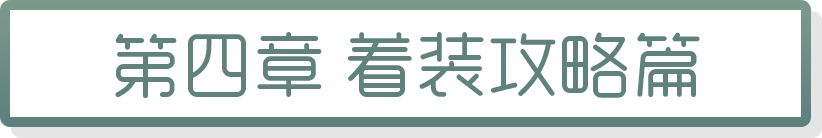
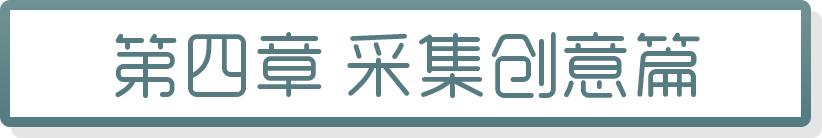
更新添加内容,调色板

Changed region(s): [[0.3954, 0.2319, 0.7603, 0.7246]]

diff --git a/www/templates/four_secai_1.html b/www/templates/four_secai_1.html
@@ -1,5 +1,8 @@
 <ion-view>
     <ion-content scroll="false">
+        <!--本页层数 z-index-->
+        <!--中间的填图为-1（最底层）,参考图片按钮即图片上面的按钮为2（防止以后加入其它层，所以跳过1层）色板及色板翻页为3层
+        说明以及完成弹出框为4层，关闭按钮为5层-->
         <div id="sebiao_1" class="sebiao"></div>
         <div id="sebiao_2" class="sebiao"></div>
         <div id="sebiao_3" class="sebiao"></div>
@@ -7,7 +10,7 @@
         <div id="sebiao_5" class="sebiao"></div>
         <div id="sebiao_6" class="sebiao"></div>
         <div id="sebiao_7" class="sebiao"></div>
-        <img id="tiaoseban" src="img/colorclass/tiaoseban.png" alt=""/>
+        <img id="tiaoseban" src="img/colorclass/tiaoseban.png" onclick="tiao_seban()" alt=""/>
         <hr id="up_hr"/>
         <hr id="down_hr"/>
         <img id="photo_anniu" src="img/colorclass/photo_anniu.png" alt=""/>
@@ -21,8 +24,43 @@
         <img id="complete" src="img/colorclass/complete.png" onclick="complete_on()" alt=""/>
         <!--这个div用来代替关闭-->
         <div id="delete_complete" onclick="complete_off()"></div>
-        <img id="complete_text" src="img/colorclass/complete_text.png" alt=""/>
+        <img id="complete_text" src="img/colorclass/complete_text_1.png" alt=""/>
         <img id="photo_back" src="img/colorclass/photo_back.png" ng-click="backThree_secai_1()" alt=""/>
-        <img src="" alt=""/>
+        <!--色板-->
+        <!--色板1-->
+        <div class="seban" id="seban_1">
+            <div style="background-color:#F9CAC4" class="ts"></div>
+            <div style="background-color:#F6AFC1" class="ts"></div>
+            <div style="background-color:#EE2C75" class="ts"></div>
+            <div style="background-color:#ED3125" class="ts"></div>
+            <div style="background-color:#AC0634" class="ts"></div>
+            <div style="background-color:#A74D0E" class="ts"></div>
+            <div style="background-color:#F9AB84" class="ts"></div>
+            <div style="background-color:#F08C1C" class="ts"></div>
+            <div style="background-color:#FCB912" class="ts"></div>
+            <div style="background-color:#FFDD00" class="ts"></div>
+            <div style="background-color:#C0D82C" class="ts"></div>
+            <div style="background-color:#8DC73D" class="ts"></div>
+            <div style="background-color:#C8D5A7" class="ts"></div>
+            <div style="background-color:#008651" class="ts"></div>
+            <div style="background-color:#00664E" class="ts"></div>
+            <div style="background-color:#67C7C5" class="ts"></div>
+            <div style="background-color:#017A83" class="ts"></div>
+            <div style="background-color:#AAE0EC" class="ts"></div>
+            <div style="background-color:#7DB1C9" class="ts"></div>
+            <div style="background-color:#0064A2" class="ts"></div>
+            <div style="background-color:#792B81" class="ts"></div>
+            <div style="background-color:#55628F" class="ts"></div>
+            <div style="background-color:#C2C3DF" class="ts"></div>
+            <div style="background-color:#FFFFFF;border: 1px solid #AAAAAA" class="ts"></div>
+            <div style="background-color:#C6C7C9" class="ts"></div>
+            <div style="background-color:#919596" class="ts"></div>
+            <div style="background-color:#000000" class="ts"></div>
+            <img class="seban_right" src="img/colorclass/seban_right.png" alt=""/>
+        </div>
+        <!--色板2-->
+        <!--<div class="seban" id="seban_2">-->
+            <!--<div style="background-color:#;" class="ts"></div>-->
+        <!--</div>-->
     </ion-content>
 </ion-view>

diff --git a/www/templates/three_secai_4.html b/www/templates/three_secai_4.html
@@ -5,7 +5,59 @@
             <img id="upFixed_Img" src="img/colorclass/back.png" ng-click="backSecond_1()" alt=""/>
         </div>
         <div class="text">
-            <p class="text_h">这里是第四个章节</p>
+            <p></p>
+            <p class="p_title">采集创意篇</p>
+            <p class="paragraph">自然界的色彩是丰富动人的，它们构成了自然美。日月云霞、原野山川、江河湖海、花木林果和鸟兽禽鱼……都无不以美妙丰富的色彩展现出绮丽的光色。</p>
+
+            <p class="paragraph">大自然是取之不尽用之不竭的色彩宝库。自然色是和谐、统一的典范，即使是任意攫取任何自然色彩的一个片断，它的天然的统一调性都具有无以伦比的调和品质。</p>
+
+            <p class="paragraph">自然界是色彩创作设计的源泉，是搜集素材最理想的地域。我们只要仔细观察，一切美妙的色彩都会成为我们激发灵感的无尽资源。</p>
+
+            <p class="paragraph">下面让我们尝试从植物、人为物、自然材质中选取标本、采集色彩，整理色谱并应用于在服装色彩设计中的方法。</p>
+
+            <p class="p_title">视频：采集创意的过程</p>
+            <p></p>
+            <p class="p_title">脚本1—采集色彩：</p>
+
+            <p class="paragraph">拍摄一个采集对象</p>
+
+            <p class="paragraph">导入Photoshop，</p>
+
+            <p class="paragraph">裁剪换面，</p>
+
+            <p class="paragraph">用“图像—”“调整”—“亮度/对比度”调准色彩</p>
+
+            <p class="paragraph">在“滤镜库”—木刻中调整“色阶”数值，确定提取颜色数量</p>
+
+            <p class="paragraph">在画面下方用灰色做出相应数量色块</p>
+
+            <p class="paragraph">用“吸管”工具在画面吸取颜色</p>
+
+            <p class="paragraph">把吸取的色彩依次填色到灰色块，完成色谱提取。</p>
+
+            <p class="p_title">脚本2—采集色彩：</p>
+
+            <p class="paragraph">建立一个新文件，RGB格式，A4横画幅，150DPI分辨率</p>
+
+            <p class="paragraph">导入服装模特原型文件（PSD分层文件，预分好服装部件分色图层）</p>
+
+            <p class="paragraph">导入采集色彩文件，与服装图并置于画面内</p>
+
+            <p class="paragraph">用“吸管”工具在色谱中依次吸取颜色，填在服装相应部位</p>
+
+            <p class="paragraph">存储完成的创意色彩图</p>
+
+            <p class="paragraph">在完成的彩色图基础上，用“图像”“图像—”“调整”—“色相/饱和度”</p>
+
+            <p class="paragraph">调整推演出系列色彩方案，依次存储变化的结果</p>
+
+            <p class="p_title">示例图：《窗前》</p>
+
+            <p class="p_title">采集：</p>
+            <img class="p_photo" src="img/colorclass/four/1.jpg" alt=""/>
+            <p class="p_title">提取、转移、重构：</p>
+            <img class="p_photo" src="img/colorclass/four/2.jpg" alt=""/>
+            <img class="p_photo" src="img/colorclass/four/3.jpg" alt=""/>
             <img id="ceshianniu" src="img/colorclass/ceshi.png" ng-click="goFour_secai_4()"/>
         </div>
     </ion-content>

diff --git a/www/templates/three_secai_3.html b/www/templates/three_secai_3.html
@@ -5,12 +5,37 @@
             <img id="upFixed_Img" src="img/colorclass/back.png" ng-click="backSecond_1()" alt=""/>
         </div>
         <div class="text">
-            <img class="photo_text" src="img/colorclass/three/1.png" alt=""/>
-            <img class="photo_text" src="img/colorclass/three/2.png" alt=""/>
-            <img class="photo_text" src="img/colorclass/three/3.png" alt=""/>
-            <img class="photo_text" src="img/colorclass/three/4.png" alt=""/>
-            <img class="photo_text" src="img/colorclass/three/5.png" alt=""/>
-            <img class="photo_text" src="img/colorclass/three/6.png" alt=""/>
+            <p></p>
+            <p class="p_title">主色相统合法：</p>
+            <p class="paragraph">在着装的色彩组合中，以基本色相为统领，突出一个色相的主色调，是既突出主调，又高度调和统一的组合途径。</p>
+
+            <p class="paragraph">红、橙、黄、蓝、绿、紫是色彩世界中的几个基本色相。各基本色相都有鲜明的性格和象征性，也表现为一定的主题。</p>
+
+            <p class="paragraph">下面的色调来源于香山的秋色主题，红、橙、黄主色再辅以不同明度和纯度的演化，形成了醇厚浓郁的色调。</p>
+            <img class="p_photo" src="img/colorclass/three/1.jpg" alt=""/>
+            <img class="p_photo" src="img/colorclass/three/2.jpg" alt=""/>
+            <img class="p_photo" src="img/colorclass/three/3.jpg" alt=""/>
+            <img class="p_photo" src="img/colorclass/three/4.jpg" alt=""/>
+            <img class="p_photo" src="img/colorclass/three/5.jpg" alt=""/>
+            <img class="p_photo" src="img/colorclass/three/6.jpg" alt=""/>
+            <img class="p_photo" src="img/colorclass/three/7.jpg" alt=""/>
+            <img class="p_photo" src="img/colorclass/three/8.jpg" alt=""/>
+            <img class="p_photo" src="img/colorclass/three/9.jpg" alt=""/>
+            <img class="p_photo" src="img/colorclass/three/10.jpg" alt=""/>
+            <img class="p_photo" src="img/colorclass/three/11.jpg" alt=""/>
+            <img class="p_photo" src="img/colorclass/three/12.jpg" alt=""/>
+            <img class="p_photo" src="img/colorclass/three/13.jpg" alt=""/>
+            <img class="p_photo" src="img/colorclass/three/14.jpg" alt=""/>
+            <img class="p_photo" src="img/colorclass/three/15.jpg" alt=""/>
+            <p class="paragraph">在下面的案例中，在服装款型不变的基础上，各套服装都以单一的主色表现，仅仅通过纯度的调节，就取得了十分丰富高雅的表现力。</p>
+            <img class="p_photo" src="img/colorclass/three/16.jpg" alt=""/>
+            <img class="p_photo" src="img/colorclass/three/17.jpg" alt=""/>
+            <img class="p_photo" src="img/colorclass/three/18.jpg" alt=""/>
+            <img class="p_photo" src="img/colorclass/three/19.jpg" alt=""/>
+            <img class="p_photo" src="img/colorclass/three/20.jpg" alt=""/>
+            <img class="p_photo" src="img/colorclass/three/21.jpg" alt=""/>
+            <img class="p_photo" src="img/colorclass/three/22.jpg" alt=""/>
+            <img class="p_photo" src="img/colorclass/three/23.jpg" alt=""/>
             <img id="ceshianniu" src="img/colorclass/ceshi.png" ng-click="goFour_secai_3()"/>
         </div>
     </ion-content>

diff --git a/www/templates/three_secai_2.html b/www/templates/three_secai_2.html
@@ -5,6 +5,52 @@
             <img id="upFixed_Img" src="img/colorclass/back.png" ng-click="backSecond_1()" alt=""/>
         </div>
         <div class="text">
+            <p></p>
+            <p class="p_title">1.统调：</p>
+            <p class="paragraph">顾名思义，就是使色调统一。</p>
+
+            <p class="paragraph">统一色调能够使各色彩并置时都呈现统一谐调的倾向，是色彩调和的最典型状态。</p>
+
+            <p class="paragraph">统一色调的方法主要有：</p>
+
+            <p class="paragraph">各色彩都是相同或相近的色相；</p>
+
+            <p class="paragraph">各色彩都有相同或相近的明度； </p>
+
+            <p class="paragraph">各色彩都有较低的纯度。</p>
+            <img class="p_photo" src="img/colorclass/two/1.jpg" alt=""/>
+            <img class="p_photo" src="img/colorclass/two/2.jpg" alt=""/>
+            <p class="p_title">2、抑扬</p>
+
+            <p class="paragraph">在两个以上的色彩组合中，通过调节色彩对比的强弱，使色彩的一部分沉静，另一部分活跃起来，形成张弛有度的关系。色彩沉静部分的面积越大，整体调和感就越强，双方的比例越接近，整天的对比度就越强。</p>
+            <img class="p_photo" src="img/colorclass/two/3.jpg" alt=""/>
+            <img class="p_photo" src="img/colorclass/two/4.jpg" alt=""/>
+            <p class="p_title">3、对比</p>
+
+            <p class="paragraph">色彩的组合是由对比色构成的，这样的色彩组合效果鲜明生动，富于活力。对比色组合的最强对比是互补色的组合，红与绿、黄与紫、蓝与橙是互补色对比的三种基本类型。</p>
+
+            <p class="paragraph">对比色和互补色的组合处理不当时容易出现不协和的问题，在使用时要通过一些使颜色调和起来的方法来缓和冲突，主要的方法有：</p>
+
+            <p class="paragraph">减弱一方色彩的明度；</p>
+
+            <p class="paragraph">减弱一方色彩的纯度；</p>
+
+            <p class="paragraph">减弱双方色彩的纯度；</p>
+
+            <p class="paragraph">加大双方色彩的面积对比；</p>
+
+            <p class="paragraph">打散对比色彩双方的形状；</p>
+
+            <p class="paragraph">用黑白灰等无彩色作间隔。</p>
+            <img class="p_photo" src="img/colorclass/two/5.jpg" alt=""/>
+            <img class="p_photo" src="img/colorclass/two/6.jpg" alt=""/>
+            <p class="p_title">4、灰调</p>
+
+            <p class="paragraph">色彩组合中的所有颜色都降低纯度后就形成了灰色调。灰色调中各个颜色都含有共同的灰度色，形成了同一的趋向，个性减弱，调和感增强。</p>
+
+            <p class="paragraph">灰调色是优雅的颜色，色彩含蓄有厚度，色调越灰，色调越调和。但极端的灰色调也会走向色彩感消失，成为无彩色的组合。</p>
+            <img class="p_photo" src="img/colorclass/two/7.jpg" alt=""/>
+            <img class="p_photo" src="img/colorclass/two/8.jpg" alt=""/>
             <img id="ceshianniu" src="img/colorclass/ceshi.png" ng-click="goFour_secai_2()"/>
         </div>
     </ion-content>

diff --git a/www/css/style.css b/www/css/style.css
@@ -46,7 +46,7 @@ li{list-style-type: none;}
 /*=============二级页--色彩课堂&自由画======begin==========*/
 #twosecaimainanniuhezi{width: 100%;height: auto;position: absolute;top: 25.85%;left: 0;}
 #twosecaimainone{width: 76.11%;height: 7.48%;position: relative;margin-left: 12.68%;}
-.twosecaimainanniu{width: 76.11%;height: 7.48%;position: relative;margin-top: 2.17%;margin-left: 12.68%;}
+.twosecaimainanniu{width: 76.11%;height: 7.48%;position: relative;margin-top: 4.17%;margin-left: 12.68%;}
 .twosecaimainanniu_2{width: 76.11%;height: 7.48%;position: relative;margin-top: 4.17%;margin-left: 12.68%;}
 #twosecaimainanniu_2hezi{width: 100%;height: auto;position: absolute;top: 29.81%;left: 0;}
 /*=============二级页--色彩课堂&自由画======end==========*/
@@ -99,12 +99,15 @@ li{list-style-type: none;}
 #photo_anniu{width: 8.33%;position: absolute;top: 13.82%;right: 6.39%;z-index: 2;}
 #ceyan_photo{width: 100%;height: 86.99%;position: absolute;bottom: 5.84%;left: 0;z-index: -1}
 #shuoming{width: 20.37%;height: auto;position: absolute;bottom:2.98%;left: 9.26%; }
-#delete_shuoming{width: 18%;height: 14%;position: absolute;bottom: 23.45%;right: 2.55%;z-index:3;}
-#shuoming_text{display:none;width: 90.74%;height: auto;position: absolute;bottom: 13.55%;left: 3.88%;box-shadow: 0.4em 0.4em 0 0 rgba(0, 0, 0, 0.1);}
+#delete_shuoming{width: 18%;height: 14%;position: absolute;bottom: 23.45%;right: 2.55%;z-index:5;}
+#shuoming_text{display:none;width: 90.74%;height: auto;position: absolute;bottom: 13.55%;left: 3.88%;z-index: 4;box-shadow: 0.4em 0.4em 0 0 rgba(0, 0, 0, 0.1);}
 #complete{width: 20.37%;height: auto;position: absolute;bottom:2.98%;left: 40.74%;}
-#complete_text{display:none;width: 92.13%;height: auto;position: absolute;top: 29.27%;left: 3.7%;z-index: 2;box-shadow: 0.4em 0.4em 0 0 rgba(0, 0, 0, 0.1);}
-#delete_complete{width: 20%;height: 15%;position: absolute;top: 25.26%;right: 1.16%;z-index: 3;}
+#complete_text{display:none;width: 92.13%;height: auto;position: absolute;top: 29.27%;left: 3.7%;z-index: 4;box-shadow: 0.4em 0.4em 0 0 rgba(0, 0, 0, 0.1);}
+#delete_complete{width: 20%;height: 15%;position: absolute;top: 25.26%;right: 1.16%;z-index: 5;}
 #photo_back{width: 20.37%;height: auto;position: absolute;bottom:2.98%;left: 71.30%}
+.seban{display:none;width: 37.96%;height: 73.71%;position: absolute;top: 12.47%;right: 5.09%;background-color: #ffffff;border: 0.3em solid #BFBFBF;z-index: 3}
+.ts{width:21.75%;height:6.03%;border-radius: 0.5em;background-color: #007aff;float: left;margin-left: 8.5%;margin-top: 9.48%;}
+.seban_right{width: 16.5%;height: auto;position: absolute;bottom: 5%;right: 10%;z-index: 3;}
 /*================四级页面-色彩课堂-第一章================end===========*/
 
 /*================三级页面-自由画==============begin============*/

diff --git a/www/js/controllers.js b/www/js/controllers.js
@@ -44,9 +44,6 @@ angular.module('starter.controllers', [])
         $scope.goThree_secai_4 = function() {
             $state.go('three_secai_4');
         };
-        $scope.goThree_secai_5 = function() {
-            $state.go('three_secai_5');
-        };
 })
     .controller('Three_secai_1Ctrl',function($scope ,$state) {
         $scope.backSecond_1 = function() {
@@ -98,19 +95,6 @@ angular.module('starter.controllers', [])
     .controller('Four_secai_4Ctrl',function($scope ,$state) {
         $scope.backThree_secai_4 = function() {
             $state.go('three_secai_4');
-        };
-    })
-    .controller('Three_secai_5Ctrl',function($scope ,$state) {
-        $scope.backSecond_1 = function() {
-            $state.go('second_1');
-        };
-        $scope.goFour_secai_5 = function() {
-            $state.go('four_secai_5');
-        }
-    })
-    .controller('Four_secai_5Ctrl',function($scope ,$state) {
-        $scope.backThree_secai_5 = function() {
-            $state.go('three_secai_5');
         };
     })
 .controller('Second_2Ctrl',function($scope ,$state) {

diff --git a/www/templates/four_secai_2.html b/www/templates/four_secai_2.html
@@ -16,7 +16,11 @@
         <!--这个div用来代替关闭-->
         <div id="delete_shuoming" onclick="shuoming_off()"></div>
         <img id="shuoming_text" src="img/colorclass/shuoming_text.png" alt=""/>
-        <img id="complete" src="img/colorclass/complete.png" alt=""/>
+        <!--完成部分-->
+        <img id="complete" src="img/colorclass/complete.png" onclick="complete_on()" alt=""/>
+        <!--这个div用来代替关闭-->
+        <div id="delete_complete" onclick="complete_off()"></div>
+        <img id="complete_text" src="img/colorclass/complete_text_2.png" alt=""/>
         <img id="photo_back" src="img/colorclass/photo_back.png" ng-click="backThree_secai_2()" alt=""/>
     </ion-content>
 </ion-view>

diff --git a/www/templates/four_secai_3.html b/www/templates/four_secai_3.html
@@ -16,7 +16,11 @@
         <!--这个div用来代替关闭-->
         <div id="delete_shuoming" onclick="shuoming_off()"></div>
         <img id="shuoming_text" src="img/colorclass/shuoming_text.png" alt=""/>
-        <img id="complete" src="img/colorclass/complete.png" alt=""/>
+        <!--完成部分-->
+        <img id="complete" src="img/colorclass/complete.png" onclick="complete_on()" alt=""/>
+        <!--这个div用来代替关闭-->
+        <div id="delete_complete" onclick="complete_off()"></div>
+        <img id="complete_text" src="img/colorclass/complete_text_3.png" alt=""/>
         <img id="photo_back" src="img/colorclass/photo_back.png" ng-click="backThree_secai_3()" alt=""/>
     </ion-content>
 </ion-view>

diff --git a/www/templates/four_secai_4.html b/www/templates/four_secai_4.html
@@ -16,7 +16,11 @@
         <!--这个div用来代替关闭-->
         <div id="delete_shuoming" onclick="shuoming_off()"></div>
         <img id="shuoming_text" src="img/colorclass/shuoming_text.png" alt=""/>
-        <img id="complete" src="img/colorclass/complete.png" alt=""/>
+        <!--完成部分-->
+        <img id="complete" src="img/colorclass/complete.png" onclick="complete_on()" alt=""/>
+        <!--这个div用来代替关闭-->
+        <div id="delete_complete" onclick="complete_off()"></div>
+        <img id="complete_text" src="img/colorclass/complete_text_4.png" alt=""/>
         <img id="photo_back" src="img/colorclass/photo_back.png" ng-click="backThree_secai_4()" alt=""/>
     </ion-content>
 </ion-view>

diff --git a/www/js/app.js b/www/js/app.js
@@ -87,16 +87,6 @@ angular.module('starter', ['ionic','starter.controllers','starter.services'])
             templateUrl: 'templates/four_secai_4.html',
             controller: "Four_secai_4Ctrl"
         })
-        .state('three_secai_5',{
-            url: '/three_secai_5',
-            templateUrl: 'templates/three_secai_5.html',
-            controller: "Three_secai_5Ctrl"
-        })
-        .state('four_secai_5',{
-            url: '/four_secai_5',
-            templateUrl: 'templates/four_secai_5.html',
-            controller: "Four_secai_5Ctrl"
-        })
         .state('second_2',{
             url: '/second_2',
             templateUrl: 'templates/second_2.html',

diff --git a/www/templates/second_1.html b/www/templates/second_1.html
@@ -14,8 +14,6 @@
             <img class="twosecaimainanniu" id="secai_three_2" src="img/colorclass/three_lock.png" alt=""/>
             <img class="twosecaimainanniu" id="secai_four_1" src="img/colorclass/four.png" ng-click="goThree_secai_4()" alt=""/>
             <img class="twosecaimainanniu" id="secai_four_2" src="img/colorclass/four_lock.png" alt=""/>
-            <img class="twosecaimainanniu" id="secai_five_1" src="img/colorclass/five.png" ng-click="goThree_secai_5()" alt=""/>
-            <img class="twosecaimainanniu" id="secai_five_2" src="img/colorclass/five_lock.png" alt=""/>
         </div>
     </ion-content>
     <!--返回按钮-->

diff --git a/www/js/services.js b/www/js/services.js
@@ -30,3 +30,13 @@ function complete_on(){
 function complete_off(){
     document.getElementById("complete_text").style.display = "none";
 }
+//调色板弹出与隐藏
+function tiao_seban(){
+    var ts_click = document.getElementById("seban_1");
+    if(ts_click.style.display =="none"){
+        ts_click.style.display = "block";
+    }else{
+        ts_click.style.display = "none";
+    }
+}
+//
